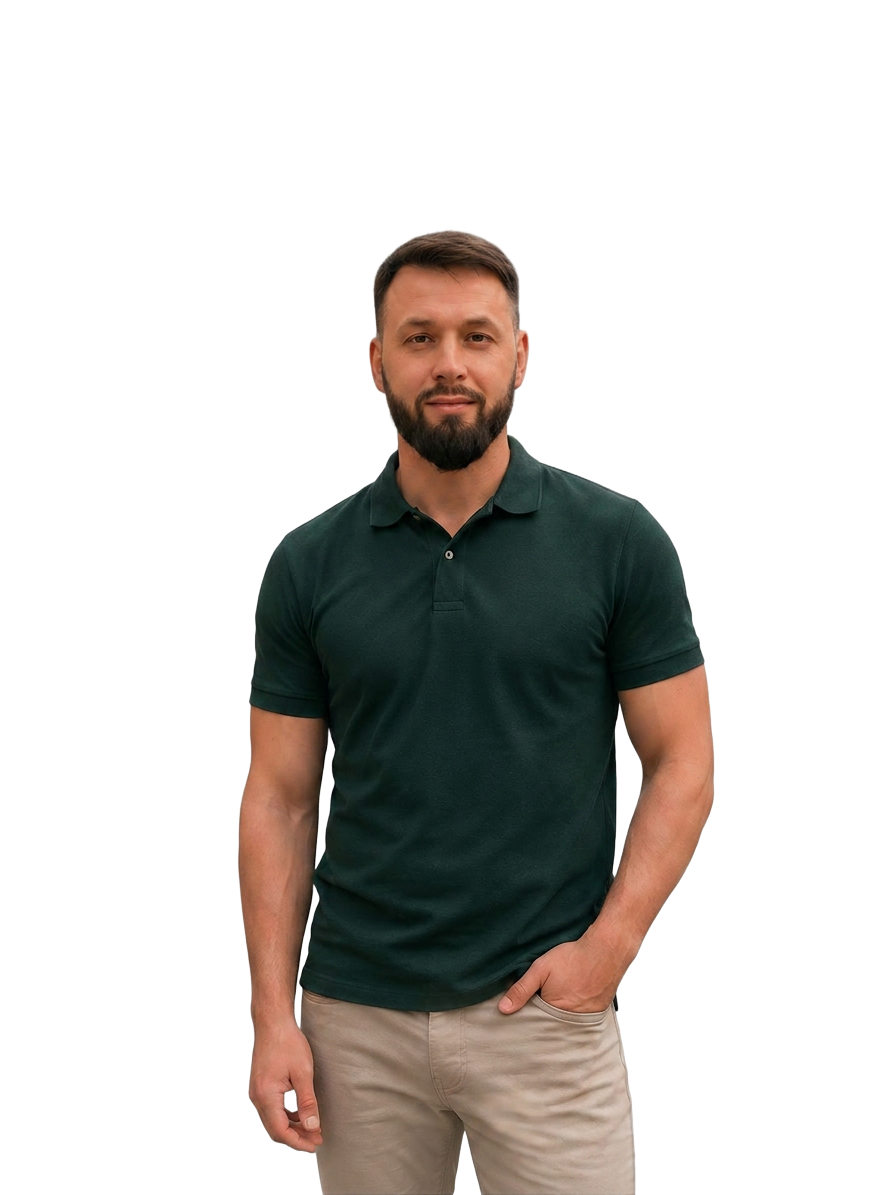
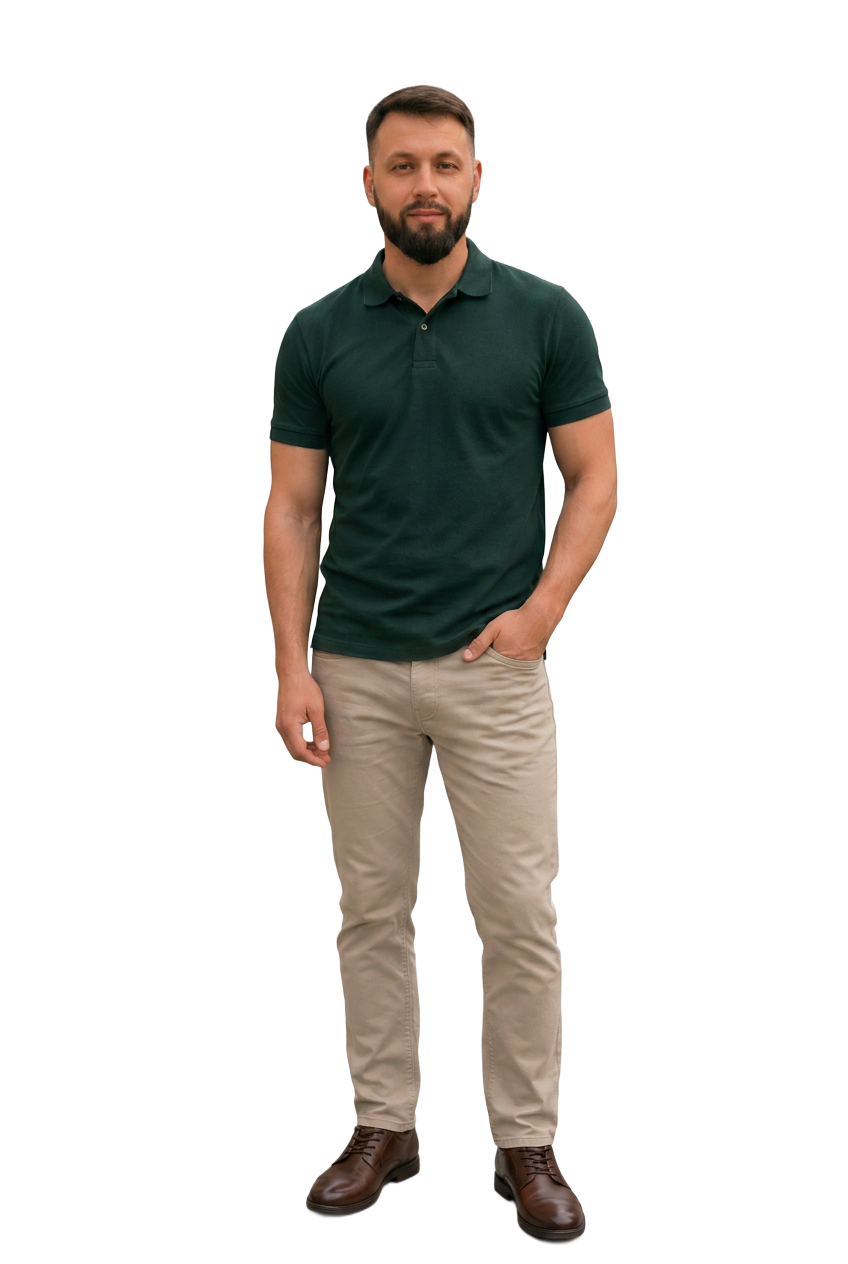
Changes

diff --git a/.lovable/plan.md b/.lovable/plan.md
@@ -1,66 +1,45 @@
-## Редизайн hero-блока в стиле референса
+## Цель
 
-Цель: заменить нынешнее фото Даниса на новое (присланное) и оформить hero-блок в стиле референса с Кириллом Артамоновым — драматичный тёмный фон с фактурой (цепи/кристаллы/блики), крупное имя поверх фото, фигура вырезана и интегрирована в композицию. Цветовая палитра сайта (графит #1E1E1E, молочный #FDFDFD, оливково-золотистый #97965B, серо-оливковый #65653F, сливово-графитовый #2E2430) полностью сохраняется — никакого красного и серебра, как в референсе.
+Переделать hero так, чтобы фото Даниса выглядело как на референсе: фигура целиком, без обрезки ног, на тёмной драматичной сцене, цвета сайта (графит + оливково‑золотой) сохраняются.
 
-### 1. Подготовка фото
+## Что меняется
 
-- Загруженное фото Даниса (поло, светлый фон) сохранить в `src/assets/danis-garipov-hero.png`, заменив текущее.
-- Через `imagegen--edit_image` обработать фото: удалить белый фон (transparent PNG), оставив только фигуру. Это даст возможность «вписать» его в тёмную сцену, как на референсе.
+### 1. Само фото Даниса
 
-### 2. Фоновая сцена hero-блока
+- Из текущего исходника `src/assets/danis-garipov-raw.png` сделать новую дорисованную версию: добавить недостающую нижнюю часть (полностью брюки и обувь), сохранив позу, одежду (зелёное поло, светлые брюки), пропорции и черты лица. Без искажений лица.
+- Фон у фигуры остаётся прозрачным (PNG), результат сохранить в `src/assets/danis-garipov-hero.png`.
+- Лёгкая цветокоррекция под тёмную сцену: чуть приглушить света, добавить тонкий тёплый контровой свет по контуру справа, чтобы фигура «садилась» в тёмный фон, как на референсе.
 
-- Сгенерировать через `imagegen--generate_image` фоновую текстуру в палитре сайта: тёмный графитовый фон (#1E1E1E / #2E2430) с тонкими оливково-золотистыми бликами и абстрактной фактурой (геометрические кристаллы / световые лучи / лёгкая дымка) — БЕЗ красного, БЕЗ цепей в буквальном смысле, чтобы остаться в спокойной «взрослой» эстетике сервиса.
-- Сохранить в `src/assets/hero-background.jpg`.
+### 2. Фон hero
 
-### 3. Перестройка hero-композиции в `src/pages/Index.tsx`
+- Перегенерировать `src/assets/hero-background.jpg` в стиле референса: глубокий графит (#1E1E1E / #2E2430), мягкий вертикальный свет сверху, лёгкая дымка/туман у пола, без кристаллов и без красного. Композиция симметричная, центр чуть светлее — чтобы фигура читалась.
 
-Композиция по референсу:
+### 3. Композиция hero в `src/pages/Index.tsx`
 
-```text
-┌─────────────────────────────────────────────┐
-│  ФИНАНСОВЫЙ БРОКЕР · ЭКСПЕРТ · СТРАТЕГ      │  ← тонкий капс над именем
-│                                              │
-│  ДАНИС     [ФОТО]     ГАРИПОВ                │  ← крупное имя, фигура в центре поверх
-│                                              │
-│  [короткий блок слева]   [блок справа]       │
-│  Финансовый сервис,      Помогаем найти       │
-│  где каждый получает     решение под          │
-│  своё.                   вашу ситуацию.       │
-│                                              │
-│  [ОСТАВИТЬ ЗАЯВКУ]   [МОИ УСЛУГИ]            │
-└─────────────────────────────────────────────┘
-```
+- Контейнер hero делается выше, чтобы вмещать фигуру в полный рост:
+  - desktop: высота секции `min-h-[760px]`, фото `h-[88%]`, прижато к низу секции (`items-end`), нижняя кромка фото = нижняя кромка тёмной сцены (никакой обрезки ног рамкой).
+  - tablet: `min-h-[680px]`, фото `h-[80%]`.
+  - mobile: `min-h-[620px]`, фото `h-[70%]`, по центру, всегда видны ноги до обуви.
+- Под фигурой — лёгкая мягкая «тень‑подложка» (радиальный градиент), как на референсе, чтобы фигура не висела в воздухе.
+- Большой типографический бэкграунд «ДАНИС / ГАРИПОВ» остаётся, но опускается ниже и уменьшается, чтобы не наезжать на лицо и не перекрывать ноги; цвет — приглушённый оливково‑золотой `#97965B/20`.
+- Боковые карточки «О сервисе» и «Подход» на desktop отодвигаются к краям контейнера и поднимаются к верхней трети, чтобы не пересекаться с фигурой в полный рост.
+- Слоган и кнопки («Оставить заявку», «Мои услуги») остаются под сценой — без изменений по тексту и стилю.
 
-Технически:
-- Секция hero становится `relative` с фоновой картинкой (`hero-background.jpg`) + затемняющий градиент-оверлей в графит.
-- Имя «ДАНИС ГАРИПОВ» выводится огромным шрифтом (Playfair / текущий heading-шрифт), полупрозрачным оливково-золотистым, расположено за фигурой через `z-index`.
-- Фигура Даниса (transparent PNG) — по центру, поверх имени, с мягкой тенью.
-- Слоган «ФИНАНСОВАЯ ЭКОСИСТЕМА, ГДЕ КАЖДЫЙ ПОЛУЧАЕТ СВОЁ» переносится в подводку над именем (мелкий капс с разрядкой) — чтобы не дублировать большой блок имени. Подзаголовок «Помогаем найти финансовое решение…» и текущие две кнопки остаются под композицией.
-- Две короткие info-плашки слева/справа от фигуры (как в референсе — «Эксперт по…» и «…с N-летним опытом»):
-  - Левая: «Финансовый брокер с многолетним опытом структурирования сделок».
-  - Правая: «Решения под конкретную задачу, сумму и срок».
-- Кнопки оставляем существующие («Оставить заявку», «Мои услуги») — стиль не меняем, только переносим под композицию.
+### 4. Что НЕ меняется
 
-### 4. Адаптив
+- Палитра сайта, шрифты, кнопки, навигация, остальные секции страницы.
+- Тексты hero (надзаголовок, слоган, подпись, кнопки).
+- Структура разделов ниже hero.
 
-- Десктоп (≥1024px): композиция как на схеме — имя за фигурой, плашки по бокам.
-- Планшет (768–1023px): плашки уходят под фигуру стопкой, имя остаётся крупным фоном.
-- Мобильный (<768px): фигура сверху, имя — крупным капсом под ней (а не наложением, чтобы не было каши), плашки и кнопки стопкой. Фон сохраняется.
+## Технические детали
 
-### 5. Что НЕ меняется
+Файлы, которые будут затронуты:
 
-- Палитра сайта (графит/молочный/оливково-золотистый/сливово-графитовый).
-- Все остальные секции (Почему мне доверяют, Шаги, Финансовый разбор, Услуги, Кому подходит, Агенты, Благотворительность).
-- Шрифты, кнопки, общая типографика.
-- Никакого красного, серебристого металла или цепей из референса — берём только композиционную идею (крупное имя + вырезанная фигура + драматичный тёмный фон).
+- `src/assets/danis-garipov-hero.png` — заменить на полноростовую версию.
+- `src/assets/hero-background.jpg` — заменить на новый фон под референс.
+- `src/pages/Index.tsx` — обновить высоты hero‑секции, выравнивание фигуры (`items-end`, `object-bottom`), размеры и позицию большого имени, позицию боковых карточек.
 
-### Затрагиваемые файлы
+## Проверка после внедрения
 
-- `src/assets/danis-garipov-hero.png` — заменить на новое фото (transparent PNG).
-- `src/assets/hero-background.jpg` — новый файл, фоновая сцена.
-- `src/pages/Index.tsx` — переписать только hero-секцию.
-- `src/index.css` / `tailwind.config.ts` — точечно, если потребуется утилита для крупного «выгорающего» имени (text-stroke / opacity); цвета не трогаем.
-
-### Результат
-
-Hero-блок получает «вау»-композицию в духе референса, но в строгой оливково-графитовой палитре сервиса. Фото Даниса заменено и интегрировано в сцену. Остальной сайт остаётся без изменений.
+- Скриншоты на ширинах 1440, 1024, 768, 390: убедиться, что ноги и обувь видны полностью, ничего не обрезается, большое имя не наезжает на лицо, боковые карточки не пересекаются с фигурой.
+- Сверка с референсом: тёмная сцена, мягкий свет сверху, фигура в полный рост по центру, типографика на фоне.
